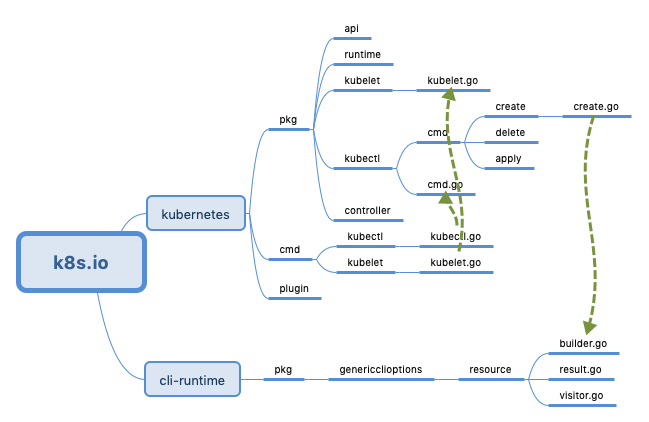
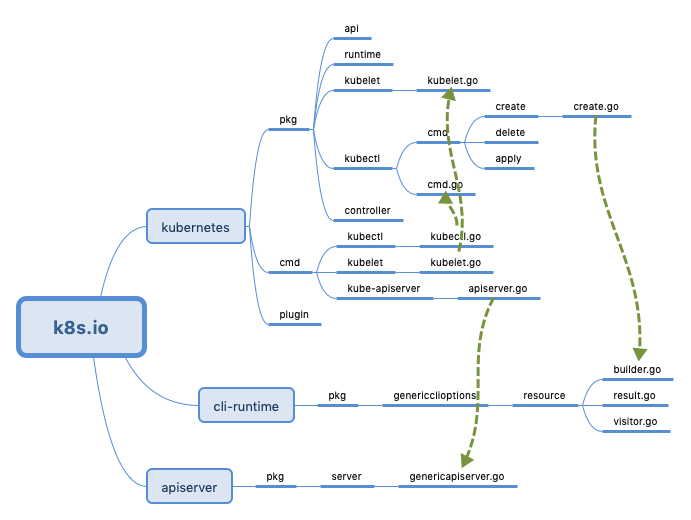
[fix]add post

diff --git a/_posts/Technology/Kubernetes/2018-12-31-kubernetes_intro.md b/_posts/Technology/Kubernetes/2018-12-31-kubernetes_intro.md
@@ -15,13 +15,38 @@ keywords: kubernetes
 
 ## 一些体会
 
-有时候不得不承认，一些概念可能都火了五六年了， 但在实践层面仍然是滞后。能用是不够的，好用才行。有一个大牛说过：ci/cd 和 devops 是一体两面的。比如对于java 开发来说，用物理机部署（拷贝文件、配置nginx等） 和使用k8s 发布服务一样复杂（虽说k8s可以一键发布，但理解k8s对他来说是个负担），至少前者他还懂一点。
+k8s 的知识体系是分层，内核是一套理念，然后是apiserver,kuberlet,controler，最上才是pod之类。待梳理，要画张图
 
+有时候不得不承认，一些概念可能都火了五六年了， 但在实践层面仍然是滞后。能用是不够的，好用才行。有一个大牛说过：ci/cd 和 devops 是一体两面的。比如对于java 开发来说，用物理机部署（拷贝文件、配置nginx等） 和使用k8s 发布服务一样复杂（虽说k8s可以一键发布，但理解k8s对他来说是个负担），至少前者他还懂一点。
 
 
 [Kubernetes何时才会消于无形却又无处不在？](https://mp.weixin.qq.com/s?__biz=MzA5OTAyNzQ2OA==&mid=2649699253&idx=1&sn=7f47db06b63c4912c2fd8b4701cb8d79&chksm=88930cd6bfe485c04b99b1284d056c886316024ba4835be8967c4266d9364cffcfedaf397acc&mpshare=1&scene=23&srcid=1102iGdvWF6lcNRaDD19ieRy%23rd)一项技术成熟的标志不仅仅在于它有多流行，还在于它有多不起眼并且易于使用。Kubernetes依然只是一个半成品，还远未达到像Linux内核及其周围操作系统组件在过去25年中所做到的那种“隐形”状态。
 
 [解读2018：我们处在一个什么样的技术浪潮当中？](https://mp.weixin.qq.com/s?__biz=MjM5MDE0Mjc4MA==&mid=2651011968&idx=1&sn=3d500660f7dd47c9fa4033bd9fa69c2f&chksm=bdbec3d38ac94ac523355e1e21f04af71e47a0841d1af0afedecc528b5eb4a5f9fe83f105a11&mpshare=1&scene=1&srcid=12217gWDeJ0aPl8BVBUycQyh#rd)Kubernetes 还是太底层了，真正的云计算并不应该是向用户提供的 Kubernetes 集群。2014 年 AWS 推出 Lambda 服务，Serverless 开始成为热词。从理论上说，Serverless 可以做到 NoOps、自动扩容和按使用付费，也被视为云计算的未来。Serverless 是我们过去 25 年来在 SaaS 中走的最后一步，因为我们已经渐渐将越来越多的职责交给了服务提供商。——Joe Emison 《为什么 Serverless 比其他软件开发方法更具优势》
+
+
+
+
+## Container-networking-docker-kubernetes 对orchestrator 职能的描述
+
+container orchestrator
+
+一般orchestrator 包括但不限于以下功能：
+
+1. Organizational primitives，比如k8s的label
+2. Scheduling of containers to run on a ost
+3. Automated health checks to determine if a container is alive and ready to serve traffic and to relaunch it if necessary
+4. autoscaling 
+5. upgrading strategies,from rolling updates to more sophisticated techniques such as A/B and canary deployments.
+6. service discovery to determine which host a scheduled container ended upon,usually including DNS support.
+
+The unit of scheduling in Kubernetes is a pod. Essentially, this is a tightly coupled set of one or more containers that are always collocated (that is, scheduled onto a node as a unit); they cannot be spread over nodes. 
+
+1. The number of running instances of a pod—called replicas—can be declaratively stated and enforced through controllers. 
+2. **The logical organization of all resources, such as pods, deployments, or services, happens through labels.** label 的作用不小啊
+
+Kubernetes is highly extensible, from defining new workloads and resource types in general to customizing its user-facing parts, such as the CLI tool kubectl (pronounced cube cuddle).
+
 
 ## Julia Evans 系列
 

diff --git a/_posts/Life/2018-11-13-technical_leadership_note.md b/_posts/Life/2018-11-13-technical_leadership_note.md
@@ -173,12 +173,18 @@ PS：我倒不是太关心说了什么，而是这种思维方式，你一团浆
 
 所以技术人员应该是先找一个高速发展的行业，然后在其中选一个高速发展的企业，其次才是薪资待遇之类的其他东西。不同公司提供的薪水不会差太多，大家未来都靠股票，但是股票就完全取决这家公司做得怎么样。 最好的机会当然是能够进 60 人时的百度，或者100 人时的小米，但是这个真的只能靠运气。但是如果你坚定的看好一家公司的时候，就可以有目标的去加入。对于 BAT、小米、头条来讲，1000 人规模时加入一点也不晚，这不需要靠运气，更多的靠自己的眼光和实力。
 
+成敏：不少企业家、管理者都在他们的演讲中提到，如今是 VUCA 时代，也就是一个易变的、不确定的、复杂的、模糊的时代。这个概念其实并不是首次出现，
+德鲁克早在上个世纪 80 年代出版的《动荡年代的管理》一书中，就第一次明确提出了变化对商业社会的冲击，并表示当时的商业环境已经进入高度的动荡紊态。而现在商业社会的动荡程度和当时相比，至少多了一个量级。举个例子，之前一个企业要做十年、二十年才可能成长为一个非常大的独角兽，而如今，很多创业公司短短几年之内就能成长为独角兽。与此同时，一个企业从成长起来再到失败可能也只需要很短的时间，近几年的共享单车行业可以说是很好的样本了。因此，**当你不断更新自己的认知，认识了这个世界的一些粗浅的本质后，再去看待周围的事物，去做一些决策的时候，就会发现自己能思考得更深一层，有更多的想法。**
+
+创业者在创业之前要想清楚、弄明白，但其实，当你真正投入创业之后，之前想得再多还是会遇到各种各样新的情况。很多问题可能是你之前就经历过的，有相应的经验，但也有些是你之前从来没有做过的事情。这个时候，就会**逼迫你在不断的决策的过程中，把每件事情都真真正正的想清楚。**因为你一旦偷懒，不去想明白就去决策的时候，世界会立刻还你以颜色，你做出的决定很可能会导致特别糟糕的结果。 PS：系统设计也是如此，想不清楚的问题终究有一天逼你想清楚。
+
 ## 其它
 
 大前研一《思考的技术》指出，我们能看到的事物大多只是现象，而非原因，原因一定是思考后产生的。而思考是一门技术，是可以刻意练习和提升的。专业选手和业余选手最大的区别就在于正确的方法论加刻意的实践。
 
 热爱源于视野，而恐惧源于能力的不足。我们到底热爱什么呢？一定会有，只是我们没有体验到而已。但归根到底，不论大人还是孩子，眼界越宽，体验的事物越多，就越容易知道自己的兴趣所在。最终，动力等于热爱减去恐惧，不是光看你爱什么，还要看你看你怕什么
 
+刘天胜：我一直觉得优秀的程序员都是艺术家。那种气质，是一种描述起自己喜欢做的事儿两眼放光或者解决起问题来会入定的状态。
 
 
 ## 小结

diff --git a/_posts/Technology/Kubernetes/2018-08-26-parse_kubernetes_note.md b/_posts/Technology/Kubernetes/2018-08-26-parse_kubernetes_note.md
@@ -171,26 +171,6 @@ Kubernetes 项目的成功，是成千上万云计算平台上的开发者用脚
 Kubernetes 项目的本质其实只有一个，那就是“控制器模式”。这个思想，不仅仅是 Kubernetes 项目里每一个组件的“设计模板”，也是 Kubernetes 项目能够将开发者们紧紧团结到自己身边的重要原因。作为一个云计算平台的用户，能够用一个 YAML 文件表达我开发的应用的最终运行状态，并且自动地对我的应用进行运维和管理。**这种信赖关系，就是连接Kubernetes 项目和开发者们最重要的纽带。**
 
 
-## Container-networking-docker-kubernetes 对orchestrator 智能的描述
-
-container orchestrator
-
-一般orchestrator 包括但不限于以下功能：
-
-1. Organizational primitives，比如k8s的label
-2. Scheduling of containers to run on a ost
-3. Automated health checks to determine if a container is alive and ready to serve traffic and to relaunch it if necessary
-4. autoscaling 
-5. upgrading strategies,from rolling updates to more sophisticated techniques such as A/B and canary deployments.
-6. service discovery to determine which host a scheduled container ended upon,usually including DNS support.
-
-The unit of scheduling in Kubernetes is a pod. Essentially, this is a tightly coupled set of one or more containers that are always collocated (that is, scheduled onto a node as a unit); they cannot be spread over nodes. 
-
-1. The number of running instances of a pod—called replicas—can be declaratively stated and enforced through controllers. 
-2. **The logical organization of all resources, such as pods, deployments, or services, happens through labels.** label 的作用不小啊
-
-Kubernetes is highly extensible, from defining new workloads and resource types in general to customizing its user-facing parts, such as the CLI tool kubectl (pronounced cube cuddle).
-
 ![](/public/upload/kubernetes/parse_k8s_ad.JPG)
 
 笔者个人微信订阅号
